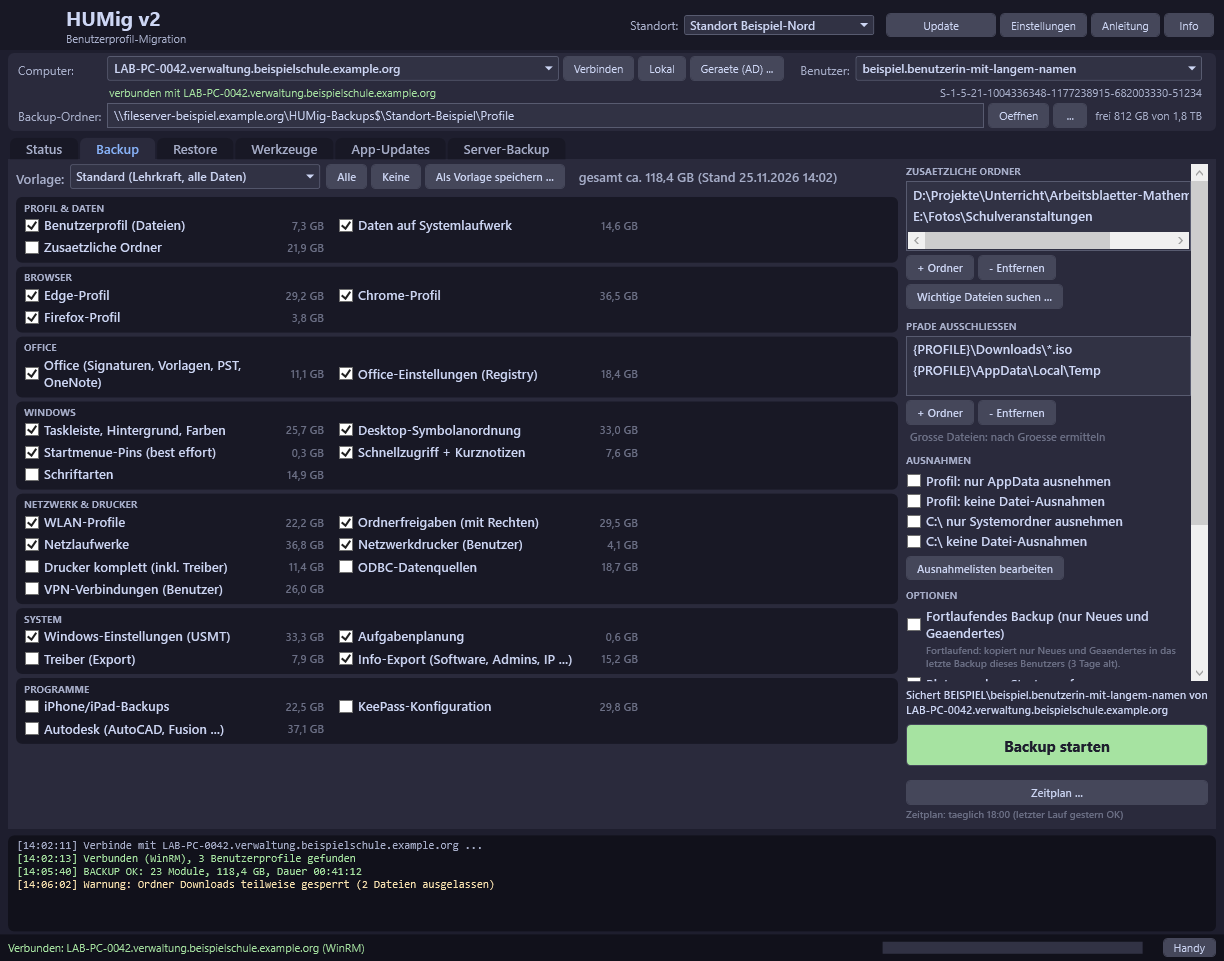
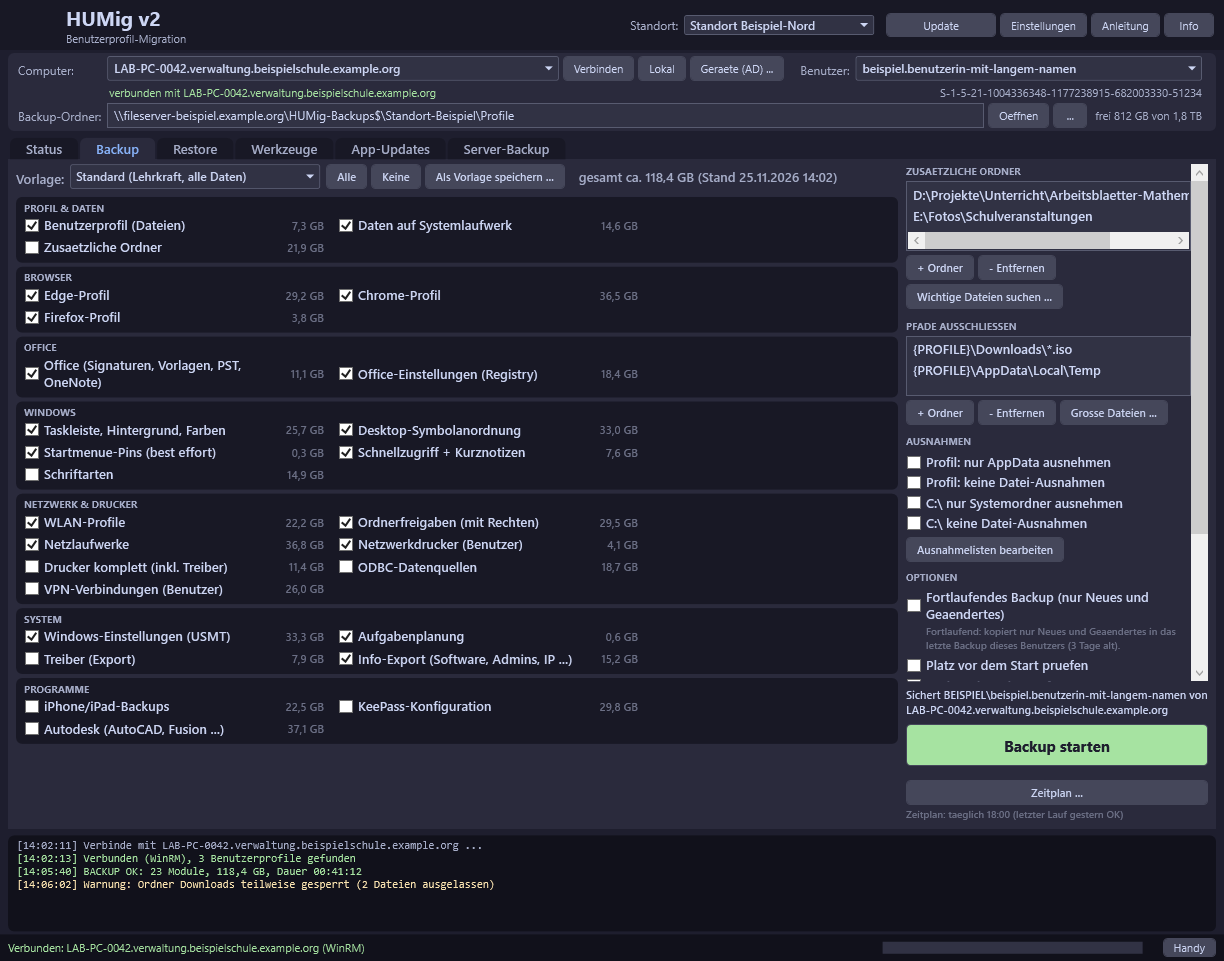
Hilfe: Rueckfragen mit Knopftexten, Bilder Backup und Restore im echten Zustand, Beenden waehrend eines Vorgangs

Changed region(s): [[0.7141, 0.4058, 0.9624, 0.718], [0.9624, 0.5307, 0.9935, 0.5619]]

diff --git a/Docs/Anleitung.html b/Docs/Anleitung.html
@@ -222,7 +222,7 @@ footer{color:var(--sub);font-size:12px;text-align:center;padding:10px}
   <p>HUMig erkennt die Sync-Ordner <b>aller</b> Anbieter, die sich bei Windows registrieren. Dateien, die nur in der Cloud liegen (Platzhalter), werden nie gelesen – so wird nichts heruntergeladen und das Backup bleibt abbrechbar. Findet HUMig Nur-Cloud-Dateien in einem unbekannten Ordner, lässt es diesen aus und meldet das.</p>
 
   <h3>Während und nach dem Backup</h3>
-  <p>Während ein Vorgang läuft, steht in jedem Reiter mit Startknopf (Backup, Restore, App-Updates, Server-Backup) an dessen Stelle <span class="ui r">Abbrechen: &lt;Vorgang&gt;</span>, z. B. <i>Abbrechen: Backup</i>; im Leerlauf ist Abbrechen ausgeblendet. Ein Klick bricht den laufenden Vorgang nach einer Rückfrage ab, die ihn nennt, egal in welchem Reiter. Das stoppt sofort (auch hängende Kopiervorgänge). Ein abgebrochenes Backup bleibt erhalten und ist als abgebrochen markiert.</p>
+  <p>Während ein Vorgang läuft, steht in jedem Reiter mit Startknopf (Backup, Restore, App-Updates, Server-Backup) an dessen Stelle <span class="ui r">Abbrechen: &lt;Vorgang&gt;</span>, z. B. <i>Abbrechen: Backup</i>; im Leerlauf ist Abbrechen ausgeblendet. Ein Klick bricht den laufenden Vorgang nach einer Rückfrage ab, die ihn nennt, egal in welchem Reiter. Wird HUMig während eines Vorgangs geschlossen, fragt es: <i>Abbrechen und beenden</i> oder <i>Weiterlaufen lassen</i>. Das stoppt sofort (auch hängende Kopiervorgänge). Ein abgebrochenes Backup bleibt erhalten und ist als abgebrochen markiert.</p>
   <p><b>Ergebnis:</b> Ist der PC, die Freigabe oder der Profilordner nicht lesbar, meldet das Backup <i>Quelle nicht erreichbar</i> mit Grund (Fehler); was trotzdem erreichbar ist, wird gesichert. Ein Ordner, der wegen fehlender Rechte nicht lesbar ist, ist eine Warnung im Modul. Erzeugt USMT keinen neuen Stand, endet das Modul mit Warnung und nennt das Datum des vorhandenen alten Stands. Kann die Prüfung nach dem Backup nicht laufen, steht <i>Prüfung nicht möglich</i> mit Grund, und das Backup endet mit Warnung.</p>
   <table>
     <tr><th style="width:230px">Datei im Backup</th><th>Inhalt</th></tr>
@@ -365,7 +365,7 @@ footer{color:var(--sub);font-size:12px;text-align:center;padding:10px}
     </ol>
     Gespeicherte Browser-Kennwörter und Cookies kommen auf einem anderen PC bzw. Konto grundsätzlich nicht mit (siehe <a href="#browser-restore">Browser</a>).</div>
   <div class="note warn" id="verknuepfungen"><b class="h">Verknüpfungen im Zielprofil</b>Beim Restore als Administrator in ein Benutzerprofil prüft HUMig vorher den Zielordner und die Ordner darüber bis zum Profil auf Verknüpfungen (Junction, symbolischer Link) – ein Benutzer könnte sonst erreichen, dass HUMig mit Administratorrechten an einen fremden Ort schreibt. Das gilt für <b>jede</b> Verknüpfung, auch wenn sie auf einen Ordner im Profil zeigt (der könnte selbst wieder eine Verknüpfung nach außen enthalten). Geprüft werden nur Ordner, die es auch im Backup gibt. Ist der Zielordner selbst bzw. ein Ordner darüber so eine Verknüpfung, wird das Modul nicht zurückgespielt (Fehler mit Pfad – ist es eine gewollte Ordner-Umleitung, z.&nbsp;B. Dokumente auf <code>D:\</code>, die Daten von Hand aus dem Backup an das genannte Ziel kopieren); liegt sie darunter, wird nur dieser Ordner ausgelassen (Warnung). Die von Windows angelegten Verknüpfungen (z.&nbsp;B. <i>Anwendungsdaten</i> → <code>AppData\Roaming</code>) stören nicht: Ein Backup enthält sie nie. Nach dem Kopieren prüft HUMig zusätzlich, ob während des Restores eine Verknüpfung entstanden ist (Warnung).</div>
-  <div class="note warn"><b class="h">Backups eines Benutzers als Administrator zurückspielen</b>Backups kann auch ein Benutzer selbst anlegen (Benutzer-Modus, Zeitplan) – und damit auch verändern. HUMig schützt den Restore daher: Registry-Dateien werden nur in den Zweig des Zielbenutzers bzw. genau den Schlüssel des Moduls importiert (sonst „nicht importiert“ im Protokoll); <i>Zusätzliche Ordner</i> mit Ziel unter Windows, Programme, ProgramData oder im HUMig-Ordner landen in <code>Profil\Zusaetzliche Ordner</code>. Gehören Dateien für Aufgaben, Schriftarten, Treiber, Drucker oder Freigaben nicht einem Administrator, fragt HUMig vor dem Start: <i>Ja</i> = übernehmen, <i>Nein</i> (Standard) = diese Teile auslassen, Rest wiederherstellen. Beim Besitzer-Setzen nach dem Restore werden Ordner mit Verknüpfungen nach außerhalb des Profils ausgelassen (Warnung).</div>
+  <div class="note warn"><b class="h">Backups eines Benutzers als Administrator zurückspielen</b>Backups kann auch ein Benutzer selbst anlegen (Benutzer-Modus, Zeitplan) – und damit auch verändern. HUMig schützt den Restore daher: Registry-Dateien werden nur in den Zweig des Zielbenutzers bzw. genau den Schlüssel des Moduls importiert (sonst „nicht importiert“ im Protokoll); <i>Zusätzliche Ordner</i> mit Ziel unter Windows, Programme, ProgramData oder im HUMig-Ordner landen in <code>Profil\Zusaetzliche Ordner</code>. Gehören Dateien für Aufgaben, Schriftarten, Treiber, Drucker oder Freigaben nicht einem Administrator, fragt HUMig vor dem Start: <i>Admin-Teile uebernehmen</i> oder <i>Admin-Teile auslassen</i> (Standard, der Rest wird wiederhergestellt). Beim Besitzer-Setzen nach dem Restore werden Ordner mit Verknüpfungen nach außerhalb des Profils ausgelassen (Warnung).</div>
   <figure><a href="img/restore.png" target="_blank"><img src="img/restore.png" onerror="this.onerror=null;this.src='https://raw.githubusercontent.com/ChiliApple/HUMig/main/Docs/img/restore.png'" alt="Reiter Restore: Backup wählen, Module, Optionen und Nacharbeiten" loading="lazy"></a><figcaption>Reiter Restore: Backup wählen, Module, Optionen und Nacharbeiten</figcaption></figure>
   <h3>Liste der Backups</h3>
   <table>
@@ -690,7 +690,7 @@ footer{color:var(--sub);font-size:12px;text-align:center;padding:10px}
   <h3 id="neustart">Neustart durch Windows Update</h3>
   <p>Windows startet einen Server nach Updates außerhalb der Nutzungszeit (z.&nbsp;B. 6–21 Uhr) selbst neu – auch mitten in einer Sicherung. Die Sicherung bricht dann ab, ohne dass HUMig noch einen Verlauf oder eine Teams-Meldung schreiben kann. Deshalb:</p>
   <ul>
-    <li><b>Vor dem Start</b> prüft HUMig, ob ein Neustart aussteht (Windows Update, Windows-Komponenten). Beim manuellen Start steht das in der Rückfrage, im Lauf und im Bericht als Hinweis. Im <b>Zeitplan</b> kommt eine Teams-Meldung (Kategorie <i>Server-Backup mit Warnungen</i>) und die Sicherung startet trotzdem – oder gar nicht, wenn im Profil (<span class="ui">Bearbeiten …</span>, letzte Frage) „bei ausstehendem Neustart nicht sichern“ eingestellt ist. Dann steht der Lauf als Fehler im Verlauf.</li>
+    <li><b>Vor dem Start</b> prüft HUMig, ob ein Neustart aussteht (Windows Update, Windows-Komponenten). Beim manuellen Start steht das in der Rückfrage, im Lauf und im Bericht als Hinweis. Im <b>Zeitplan</b> kommt eine Teams-Meldung (Kategorie <i>Server-Backup mit Warnungen</i>) und die Sicherung startet trotzdem – oder gar nicht, wenn im Profil (<span class="ui">Bearbeiten …</span>, letzte Frage: <i>Nicht sichern</i> statt <i>Sichern</i>) eingestellt ist. Dann steht der Lauf als Fehler im Verlauf.</li>
     <li><b>Während des Laufs</b> legt HUMig im Tool-Ordner (<code>Config\ServerBackup\laufend_&lt;Profil&gt;_&lt;Prozess-ID&gt;.json</code>) eine Markierung ab und löscht sie am Ende. Bleibt sie liegen (Neustart, Absturz, Abmelden), erkennt der <b>nächste Start</b> – von HUMig oder des Zeitplans – den Abbruch: Eintrag <i>ABGEBROCHEN</i> mit Ursache aus dem Systemprotokoll im Verlauf (Tool-Ordner und Platte), <code>Abbruch.txt</code> im Berichtsordner, Ereignisanzeige und Teams-Meldung (Kategorie <i>Server-Backup fehlgeschlagen / abgebrochen</i>).</li>
     <li>Beendest du HUMig während einer Sicherung mit „Nein“ (Sicherung läuft im Hintergrund weiter), wird das nicht als Abbruch gemeldet – ein späterer Neustart während dieses Laufs dann aber auch nicht.</li>
     <li>Ob ein Lauf noch läuft, erkennt HUMig an Prozess-ID und Startzeit des Prozesses; Zeitkorrekturen am Server lösen keinen Fehlalarm aus. Die Ursache aus dem Systemprotokoll steht nur da, wenn der Server seither neu gestartet wurde.</li>
@@ -704,7 +704,7 @@ footer{color:var(--sub);font-size:12px;text-align:center;padding:10px}
     <li>Protokoll jedes geplanten Laufs: <code>Logs\ServerBackup\Aufgabe_*.log</code>; Verlauf und Bericht wie bei einer Sicherung aus der Oberfläche.</li>
     <li><b>Ereignisanzeige:</b> Jeder Server-Backup-Lauf (auch aus der Oberfläche) schreibt ins Protokoll <i>Anwendung</i>, Quelle <b>HUMig</b>: Ereignis-ID <b>1000</b> = erfolgreich, <b>1001</b> = mit Warnungen, <b>1002</b> = fehlgeschlagen (auch „keine Platte angesteckt“); ein <a href="#vmexport">VM-Export</a> nach der Sicherung steht im selben Ereignis. Ein VM-Export per Knopf schreibt <b>1010</b> = erfolgreich, <b>1011</b> = mit Warnungen, <b>1012</b> = fehlgeschlagen. Damit lässt sich überwachen, ob die Nachtsicherung geklappt hat – z. B. mit einem Monitoring-Programm oder in der Ereignisanzeige per Rechtsklick auf das Ereignis › <i>Aufgabe an dieses Ereignis anfügen</i>.</li>
     <li>Einmalige Termine werden 7 Tage nach Ablauf automatisch aus der Aufgabenplanung entfernt. Aufgaben für eine <a href="#hintergrund">Sicherung im Hintergrund</a> stehen in der Liste mit <i>im Hintergrund (einmalig)</i> und werden nach dem Lauf entfernt.</li>
-    <li><b>Andere Sicherungsaufgaben:</b> Beim Planen durchsucht HUMig die ganze Aufgabenplanung nach Aufgaben mit Suchwörtern (Standard: <i>backup, sicherung, wbadmin, veeam, acronis</i>, ausgeschlossen <i>RegIdleBackup</i>) und nach Zeitplänen anderer Profile. Überschneidet sich eine aktive Aufgabe in den nächsten 14 Tagen mit dem geplanten Lauf (angenommene Dauer: dieselbe vorsichtige Schätzung wie bei der Sperrzeit), fragt HUMig nach (trotzdem planen / nicht planen / Liste anzeigen). Liste jederzeit über <span class="ui">Zeitplan-Pruefung</span> neben <span class="ui m">Zeitplan …</span> (alle Sicherungsaufgaben am Host inkl. HUMig-Zeitpläne aller Profile, mit <i>Suchwörter ändern …</i>) – ein Wort je Zeile, <code>-Wort</code> schließt aus. Gespeichert in <code>Config\serverbackup.json</code> (<code>ConflictWords</code>).</li>
+    <li><b>Andere Sicherungsaufgaben:</b> Beim Planen durchsucht HUMig die ganze Aufgabenplanung nach Aufgaben mit Suchwörtern (Standard: <i>backup, sicherung, wbadmin, veeam, acronis</i>, ausgeschlossen <i>RegIdleBackup</i>) und nach Zeitplänen anderer Profile. Überschneidet sich eine aktive Aufgabe in den nächsten 14 Tagen mit dem geplanten Lauf (angenommene Dauer: dieselbe vorsichtige Schätzung wie bei der Sperrzeit), fragt HUMig nach (<i>Trotzdem planen</i> / <i>Nicht planen</i> / <i>Liste anzeigen</i>). Liste jederzeit über <span class="ui">Zeitplan-Pruefung</span> neben <span class="ui m">Zeitplan …</span> (alle Sicherungsaufgaben am Host inkl. HUMig-Zeitpläne aller Profile, mit <i>Suchwörter ändern …</i>) – ein Wort je Zeile, <code>-Wort</code> schließt aus. Gespeichert in <code>Config\serverbackup.json</code> (<code>ConflictWords</code>).</li>
     <li>Wird HUMig während einer Server-Sicherung geschlossen, fragt es: Sicherung stoppen, im Hintergrund weiterlaufen lassen (dann ohne Eintrag in Verlauf/Bericht) oder HUMig offen lassen. Wer sich abmelden will, startet besser gleich <a href="#hintergrund">im Hintergrund</a>.</li>
   </ul>
   <h3 id="sperrzeit">Sperrzeit und andere Sicherungen am Server</h3>
